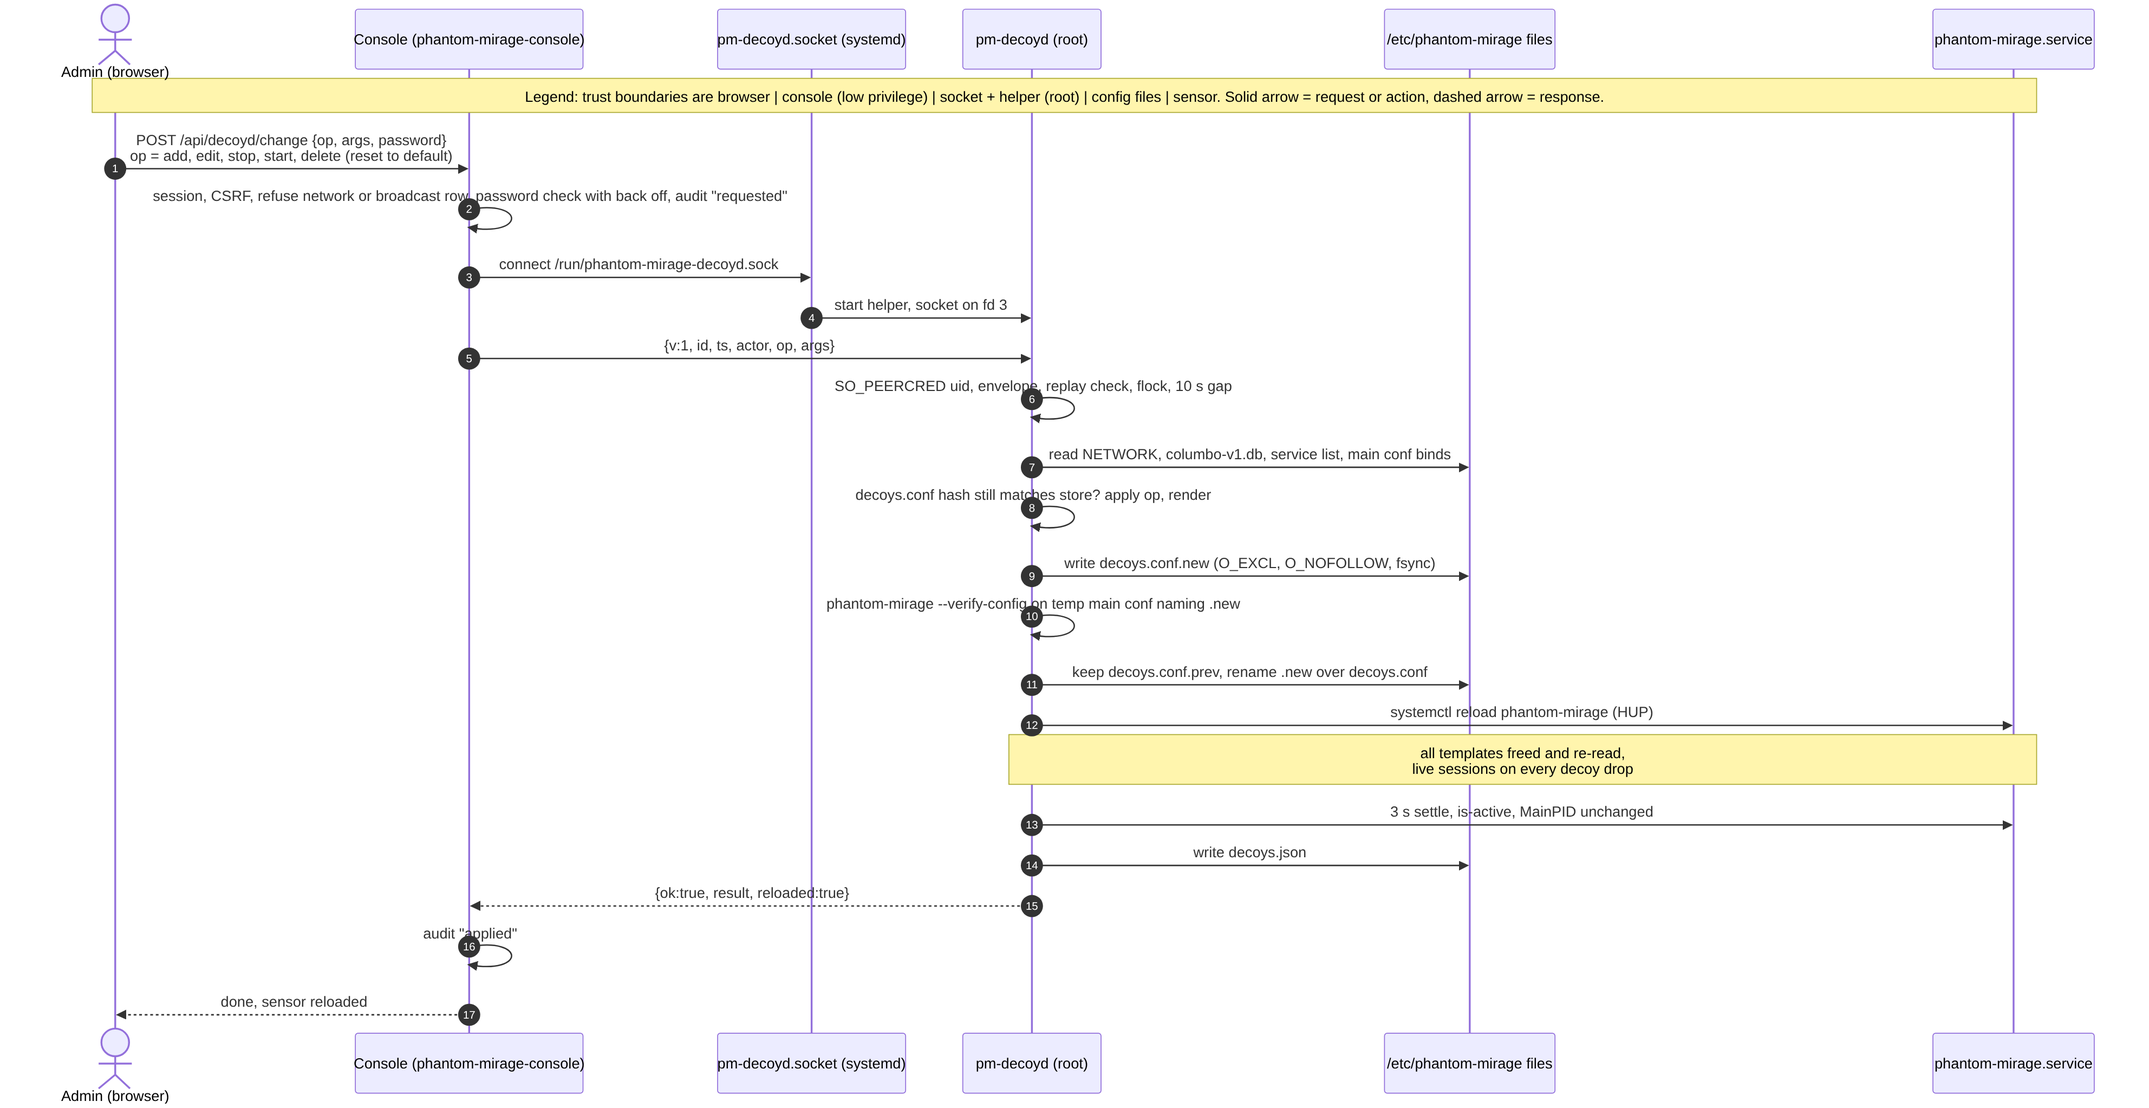
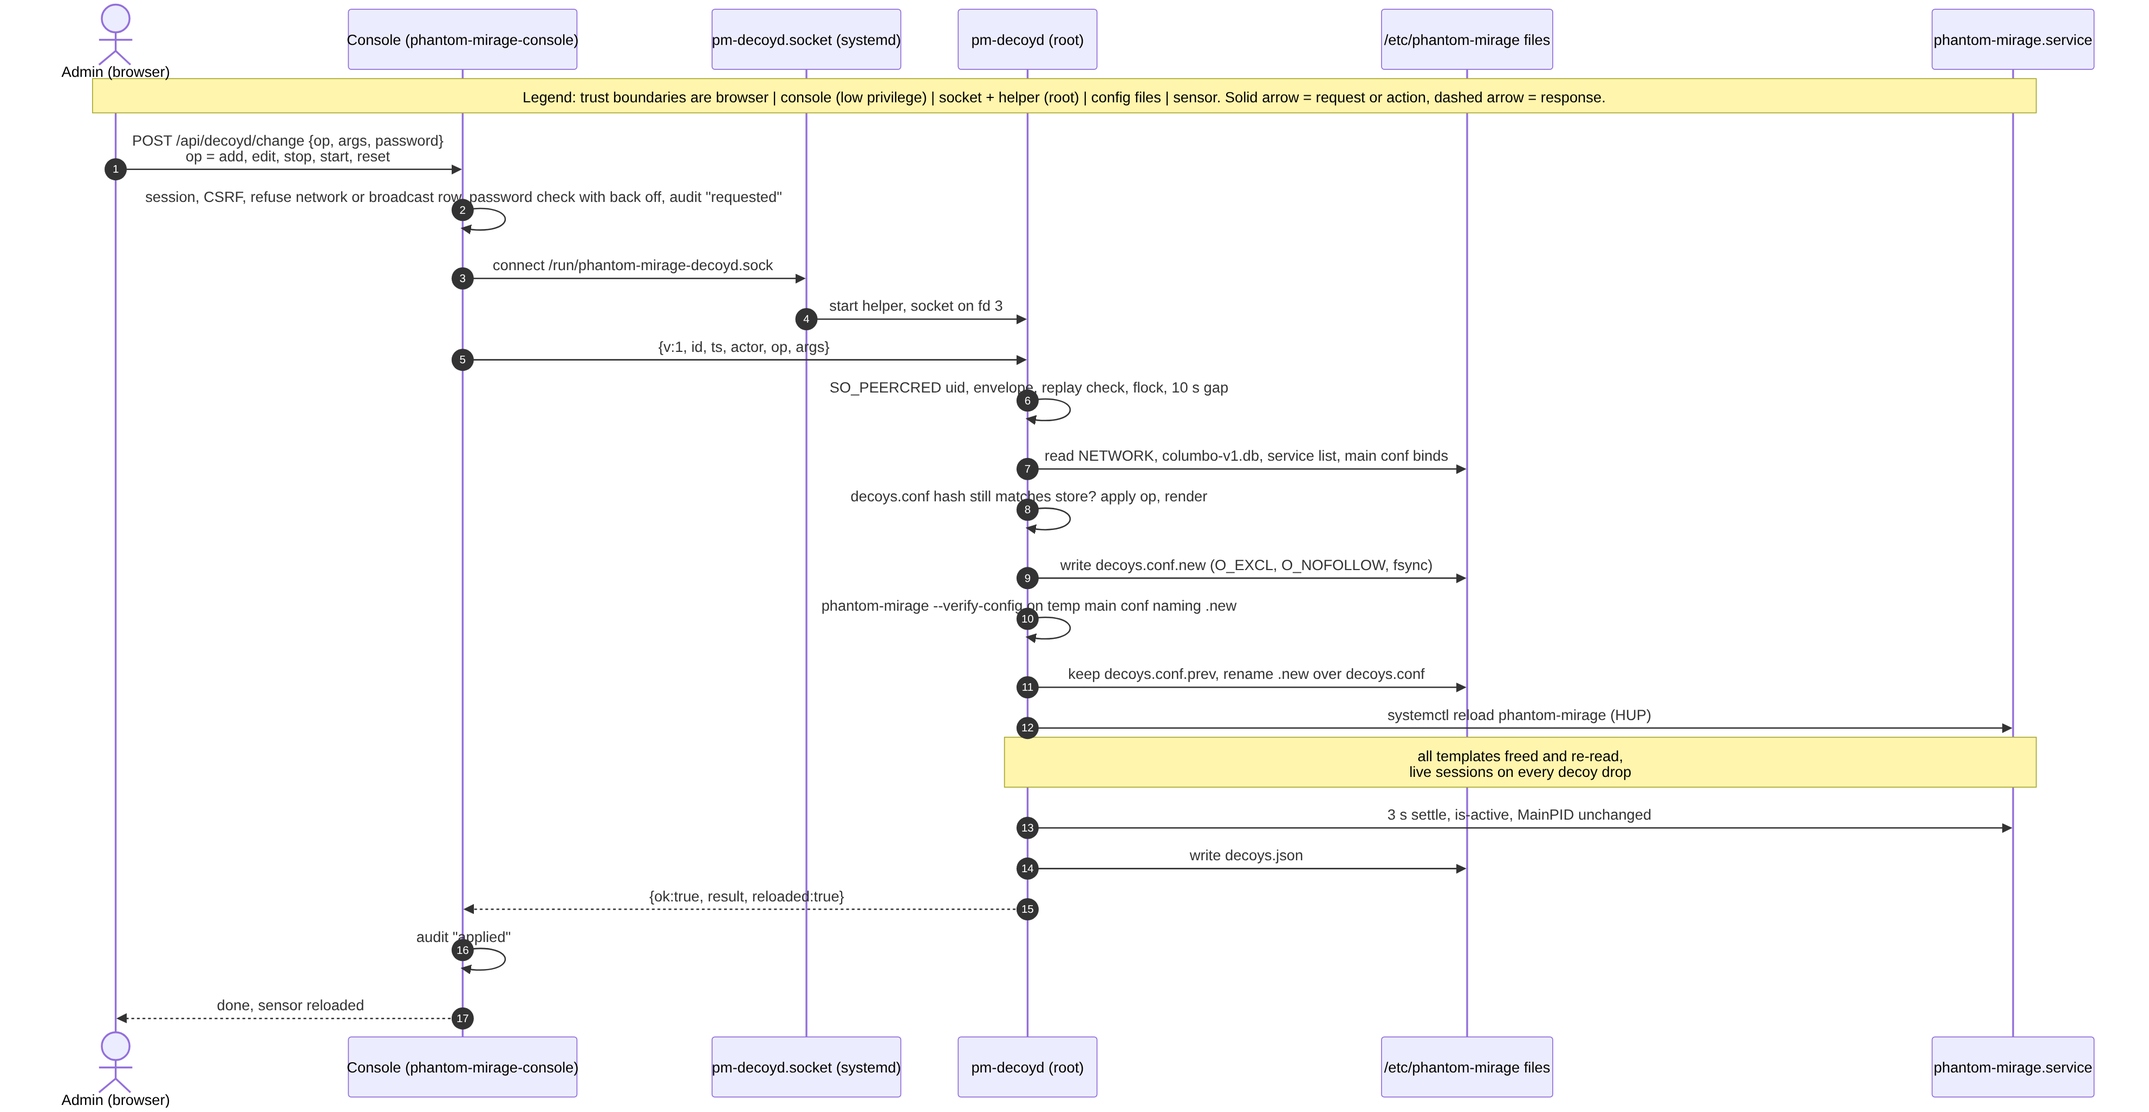
Decoy design: console surface at PR 256 head 4f4fa81
Match the doc to feat/decoy-settings at 4f4fa81. Document the
Dashboard charts and drill down, Activity event filter and live safe
refresh, profile menu with change password and sign out, time zone
drop down via /api/timezones, cache safe static assets, and branding
tweaks. NTP from the console stays not started and on hold. Delete a
decoy stays not started. Add diagram 08. Keep the real host untested
list, including Safari and postinst conffile prompt.

diff --git a/docs/design/decoy-management.md b/docs/design/decoy-management.md
@@ -1,13 +1,13 @@
 # Decoy management from the console: design
 
-**Status.** Design document, updated to match the code on branch feat/decoy-settings (draft PR 256, head 55c914d, not merged). Where this document says "implemented", it means implemented on that branch only. Nothing here is on master. Each section says what is built, what is tested offline, and what has not been tried on a real systemd host.
+**Status.** Design document, updated to match the code on branch feat/decoy-settings (draft PR 256, head 4f4fa81, not merged; stacked on draft PR 255). Where this document says "implemented", it means implemented on that branch only. Nothing here is on master. Each section says what is built, what is tested offline, and what has not been tried on a real systemd host.
 
 Labels used below:
 
 - **Implemented (PR 256)**: the code exists on feat/decoy-settings, draft PR 256, not merged.
-- **Tested offline**: covered by unit or shell tests that run without systemd, using a fake `systemctl`, a fake daemon and temp directories. I ran these tests on PR 256 head 55c914d: decoyd/tests 65 tests pass (3 skipped), console/tests 141 tests pass, ci/test_decoys_include.sh and ci/test_decoyd_socket.sh pass.
+- **Tested offline**: covered by unit or shell tests that run without systemd, using a fake `systemctl`, a fake daemon and temp directories. I ran these tests on PR 256 head 4f4fa81: decoyd/tests 65 tests pass (3 skipped), console/tests 163 tests pass, ci/test_decoys_include.sh and ci/test_decoyd_socket.sh pass.
 - **Untested on a real host**: not tried under real systemd, with a real socket, real reload or restart, or on a real LAN. The one exception is a single manual test by the project owner, described in section 9; it is not a test matrix.
-- **Not started**: no code yet.
+- **Not started**: no code yet. NTP setup from the console is not started and is on hold.
 
 ## In short
 
@@ -20,6 +20,7 @@ Labels used below:
 - Deleting a decoy is not started. It is a later slice.
 - An address block change restarts the sensor, then reloads the firewall (it no longer restarts it, which dropped the console) and restarts farpd, each only if running. If the browser loses the connection, the console waits up to 5 minutes and then shows whether the change was applied or rolled back.
 - If decoys.conf was edited by hand, the console refuses to overwrite it and tells you to run `sudo rm /var/lib/phantom-mirage/decoys.json` on the sensor.
+- On the same branch the console also gained a Dashboard with charts and drill down into Activity, an event type filter on Activity that stays usable while live, a profile menu (theme, change password, sign out), a time zone drop down backed by `/api/timezones`, and cache safe static assets so an upgrade cannot pair new HTML with stale JS. Theme choice stays in the browser only. NTP setup from the console is not built and is on hold.
 - All of this passes its offline tests. One manual test by the project owner on one test machine changed the address block and the sensor came up. Nothing else has been tried on a real sensor host.
 
 ## 1. Overview (plain words)
@@ -34,7 +35,10 @@ Labels used below:
 - set what the decoy does with any other port (open, closed, reset, block, filtered);
 - stop a decoy so it no longer answers, and start it again;
 - put a decoy back on the shared default ("Use default template");
-- change the address block and interface in the Network section.
+- change the address block and interface in the Network section;
+- open the Dashboard (charts of the last hour, with drill down into Activity, Alerts or Decoys);
+- filter Activity by source, decoy, protocol, event type and a time window;
+- change the display time zone in Settings, change the console password from the profile menu, switch light and dark theme, and sign out.
 
 **What changes for you.**
 
@@ -133,7 +137,7 @@ Source: [img/src/01-architecture.mmd](img/src/01-architecture.mmd)
 
 | Component | What it is | Status |
 |---|---|---|
-| `pm-console.py` + `decoyclient.py` | Console web server (user phantom-mirage-console). Routes `GET /api/decoyd/list`, `/api/decoyd/options`, `/api/decoyd/netinfo` and `POST /api/decoyd/change`. Client sends one JSON line per connection, timeout 90 s, 240 s for set_network. | Implemented (PR 256), tested offline |
+| `pm-console.py` + `decoyclient.py` | Console web server (user phantom-mirage-console). Decoy routes `GET /api/decoyd/list`, `/api/decoyd/options`, `/api/decoyd/netinfo` and `POST /api/decoyd/change` (client timeout 90 s, 240 s for set_network). Also `GET /api/timezones`, `POST /api/settings` (timezone), `POST /api/password`, Dashboard and Activity UI. Every POST needs `X-CSRF-Token`. | Implemented (PR 256), tested offline |
 | `pm-decoyd.socket` | `ListenStream=/run/phantom-mirage-decoyd.sock`, `SocketUser=root`, `SocketGroup=phantom-mirage-console`, `SocketMode=0660`, `Accept=no` | Implemented (PR 256), untested on a real host |
 | `pm-decoyd.service` | Runs `/usr/bin/python3 -I /usr/lib/phantom-mirage/pm-decoyd` as root. Refuses to start unless systemd passed exactly one socket (fd 3). Exits after 30 s with no connection. | Implemented (PR 256), untested on a real host |
 | `/usr/lib/phantom-mirage/pm-decoys-include` | Postinst script: creates `/etc/phantom-mirage/decoys.conf` with a header if missing, appends `include /etc/phantom-mirage/decoys.conf` to phantom-mirage.conf once, after a backup to `phantom-mirage.conf.pre-decoys.bak`. Refuses symlinked config. | Implemented (PR 256), tested offline (ci/test_decoys_include.sh) |
@@ -171,6 +175,92 @@ The main config keeps its hand written templates and binds and gains one line, `
 
 The helper keeps the sha256 of the text it last wrote. If decoys.conf on disk no longer matches, every change except reset_all (and set_network too) is refused with `E_CONFLICT`. The message tells you to drop the hand edits and all console decoy settings by running `sudo rm /var/lib/phantom-mirage/decoys.json` on the sensor and trying again. With no store there is no hash to compare, so the next change rewrites decoys.conf. reset_all also clears the conflict but is still not in the console UI.
 
+## 3a. Related console surface on the same branch
+
+These features are not the decoy helper. They live entirely in `pm-console.py` and the static UI on PR 256 (and, for theme toggle, earlier on the stack that includes PR 255). They matter for decoy work because the same session, CSRF and password rules protect every change, including decoy and network changes.
+
+```mermaid
+flowchart TB
+  subgraph B["Admin browser"]
+    PG["Pages: Dashboard, Decoys, Alerts, Activity, Settings"]
+    PROF["Profile menu: theme, change password, sign out"]
+    ST["Static assets with ?v=content hash"]
+  end
+  subgraph C["Console: phantom-mirage-console"]
+    API["pm-console.py<br/>session cookie, X-CSRF-Token on every POST"]
+    TZ["GET /api/timezones<br/>POST /api/settings timezone"]
+    PW["POST /api/password<br/>current + new, destroy all sessions"]
+    DASH["Dashboard KPIs and charts<br/>drill sets Activity filters"]
+    ACT["Activity filters: source, decoy, protocol, event, window"]
+  end
+  PG --> API
+  PROF --> PW
+  PROF --> API
+  ST -->|"index.html: Cache-Control no-store<br/>other assets: no-cache + ETag"| API
+  API --> TZ
+  API --> PW
+  API --> DASH
+  API --> ACT
+  DASH -->|"click or keyboard"| ACT
+  classDef low fill:#e2f0fd,stroke:#036
+  class API,TZ,PW,DASH,ACT low
+  subgraph LEG["Legend"]
+    L1["Blue: low privilege console only. Nothing here is the decoy helper."]:::low
+    L2["Theme choice stays in localStorage only; it is never sent to the server."]
+    L3["NTP setup from the console is not built and is on hold."]
+  end
+```
+
+![08-console-surface](img/08-console-surface.png)
+
+Source: [img/src/08-console-surface.mmd](img/src/08-console-surface.mmd)
+
+### Dashboard
+
+Implemented (PR 256), tested offline. Untested on a real host and in Safari.
+
+- Landing page after sign in. Live refresh updates counters and charts in place.
+- KPI cards: events in the last hour, open alerts, active decoys (non reserved), distinct sources in the last hour.
+- Charts: connections over the last hour in 5 minute buckets (with hover, focus and tap readout), protocol split, busiest decoys, top source addresses.
+- Drill down (mouse or keyboard): a KPI or chart part opens Activity with matching filters, or opens Alerts or Decoys. A time bucket sets a clearable window chip on Activity.
+
+### Activity filters
+
+Implemented (PR 256), tested offline.
+
+- Filters: source IP (search, 200 ms debounce, Enter applies), decoy, protocol (TCP, UDP, ICMP), event type, and an optional time window from a Dashboard drill.
+- Live refresh updates the table, the live label, the decoy list and the event type options only. It does not rebuild the source search box, so focus and keystrokes are kept.
+- Pause, clear filters, and CSV export stay as before.
+
+### Profile menu, password change and theme
+
+Implemented (PR 256), tested offline. Theme toggle itself was already on the stack (PR 255 and earlier); 4f4fa81 only hosts it in the profile menu as well as on the sign in page.
+
+- Profile row at the bottom of the sidebar: initials, user name, sensor name. Menu: theme, Change password, Sign out.
+- Theme: light or dark, stored under `pm_theme` in localStorage only. Nothing about the theme is sent to the server. With no saved choice the CSS follows `prefers-color-scheme`.
+- Change password opens a modal dialog that lives in `index.html` outside `#main`, so a live refresh cannot rebuild or close it. Fields: current password, new password, confirm. Client checks the two new values match; the server checks the current password, runs `password_problem` (at least 12 characters, not the username, not too simple, not too long), stores a new hash, destroys every session for that user, audits the change, and returns ok. The page then reloads to the sign in screen. Wrong current password is 403. The dialog also points at `phantom-mirage-setup --reset-admin` for recovery on the sensor.
+- Sign out calls `POST /api/logout` (CSRF protected) and reloads.
+- Every POST, including `/api/password`, `/api/settings`, `/api/logout` and `/api/decoyd/change`, must carry a valid `X-CSRF-Token` for the session or the console answers 403 and audits `csrf-reject`.
+
+### Time zone selector
+
+Implemented (PR 256), tested offline.
+
+- `GET /api/timezones` (session required) returns a sorted list of IANA names this host can resolve, always including UTC, and never the `posix/` or `right/` trees. Offline tests see more than 300 zones when `zoneinfo` is present.
+- Settings shows a drop down of those zones. `POST /api/settings` with `timezone` must match `^[A-Za-z0-9_+\-/]{1,64}$`. When more than one zone is known, the value must also be in the list; otherwise 400. Saving updates the config, audits the change, and the UI applies the zone live to times across the console.
+- The Settings card still shows the configured time source (browser at sign in, or an NTP server string written by setup). Changing NTP from the console is **not started** and is on hold. Do not treat the display of an existing `time_source` value as an NTP feature in this work.
+
+### Cache safe static assets
+
+Implemented (PR 256), tested offline.
+
+- `index.html` is branded and served with `Cache-Control: no-store`. Script, style and image URLs carry `?v=<12 hex chars>`, a short sha256 of every static file other than `index.html`.
+- Other static responses use `Cache-Control: no-cache` and a content `ETag`. An `If-None-Match` match returns 304. An upgrade therefore cannot leave a new page talking to a stale `console.js` or `console.css`.
+
+### Branding note
+
+The product logo wordmark in the header is now a bold uppercase vector (still themed). MIRAGE stays centred in the sidebar. Gateways are listed once. Implemented (PR 256), tested offline (branding tests).
+
 ## 4. Data flow diagrams
 
 ### 4.1 Decoy change (add, edit, stop, start, reset to default)
@@ -187,7 +277,7 @@ sequenceDiagram
   participant F as /etc/phantom-mirage files
   participant P as phantom-mirage.service
   Note over U,P: Legend: trust boundaries are browser | console (low privilege) | socket + helper (root) | config files | sensor. Solid arrow = request or action, dashed arrow = response.
-  U->>C: POST /api/decoyd/change {op, args, password}<br/>op = add, edit, stop, start, delete (reset to default)
+  U->>C: POST /api/decoyd/change {op, args, password}<br/>op = add, edit, stop, start, reset
   C->>C: session, CSRF, refuse network or broadcast row, password check with back off, audit "requested"
   C->>S: connect /run/phantom-mirage-decoyd.sock
   S->>H: start helper, socket on fd 3
@@ -531,12 +621,11 @@ The file swap is still a series of single file renames, not one atomic step. A c
 
 ## 9. Test plan and what has been run
 
-Run offline on PR 256 head 55c914d (by me, for this update)
+Run offline on PR 256 head 4f4fa81 (by me, for this update)
 
-- `python3 -m unittest discover -s decoyd/tests`: 65 tests, all pass, 3 skipped. The 3 skipped are `TestRealVerify` which need root and the built daemon. New tests cover the outcome record and `last_change`, rolled back and failed outcomes, no outcome on refusal, daemon-reload only when stale, gateways listed once, queueing behind the interval, firewall then farpd order, crash mid swap recovered on the next change, journal refusing foreign paths, and no journal left after success or rollback.
-- `python3 -m unittest discover -s console/tests`: 141 tests pass, including the `reset` op, `last_change` after a change, and the UI reading the outcome after a lost connection (simulated).
+- `python3 -m unittest discover -s decoyd/tests`: 65 tests, all pass, 3 skipped (`TestRealVerify`, need root and the built daemon). No decoyd code changed since 55c914d.
+- `python3 -m unittest discover -s console/tests`: 163 tests pass (was 141 at 55c914d). New coverage includes Dashboard page and drill down, Activity event filter and live safe refresh, profile menu, password dialog placement, chart hover readout, `/api/timezones` and timezone validation, timezone drop down markup, and cache safe assets after an upgrade.
 - `ci/test_decoys_include.sh` and `ci/test_decoyd_socket.sh`: pass.
-- Forge reports CI green on f09ce88, 4d65ef0 and 55c914d. I did not open the CI runs myself.
 
 What the offline tests cover: validation tables, envelope and replay, rendering, the decoy change pipeline and its rollbacks, network validation, set_network success, rollback, outcome record and journal recovery, socket peer checks with a socket pair. All with a fake `systemctl`, fake `ip` output and a fake daemon.
 
@@ -549,14 +638,15 @@ One manual test on a real host (reported by the project owner, not repeated by m
 Still needed, only on a real systemd host
 
 - Socket activation, socket owner and mode, `SO_PEERCRED` from the real console user, idle exit.
-- Whether the hardened unit can call `systemctl reload`, `restart` and `daemon-reload` and open the interface for verify. The one manual run suggests restart works for set_network; nothing else is shown.
+- Whether the hardened unit can call `systemctl reload` (SIGHUP under the hardened unit), `restart` and `daemon-reload` and open the interface for verify. The one manual run suggests restart works for set_network; nothing else is shown.
 - Real decoy reload and its rollback, and real restart rollback, including `ExecStartPre` checks.
-- Firewall reload keeping the console and its sessions up during set_network (the fix after the manual test).
+- Real firewall reload keeping the console and its sessions up during set_network (the fix after the manual test).
 - The console's 5 minute wait after a lost connection, against a real restart.
 - Journal recovery after a real crash or kill mid swap.
 - Stopped decoy behaviour on a real LAN: no reply while a neighbour answers, ARP still answered.
-- farpd restart and ARP for the new block, old block released.
-- Package install and upgrade: the include line and the socket enable on a real system.
+- farpd on a real LAN: restart and ARP for the new block, old block released.
+- Package install and upgrade: the include line, the socket enable, and a postinst upgrade that hits a conffile prompt, on a real system.
+- Safari (and other non Chromium browsers): Dashboard charts, drill down, profile menu, password dialog, time zone drop down and cache safe asset load.
 
 ## 10. Build slices
 
@@ -567,7 +657,11 @@ Still needed, only on a real systemd host
 | 3 Stop and start | Stop and Start icons per row; none on network and broadcast rows | Implemented (PR 256), tested offline |
 | 4 Settings panel | Personality, default actions, port table, "Use default template" (op `reset`). The panel note now says the address block is changed in the Network section, and that addresses bound in phantom-mirage.conf are changed there. | Implemented (PR 256), tested offline |
 | 5 Network section | Change address block and interface (set_network), outcome after a lost connection | Implemented (PR 256), tested offline, one manual real host run |
-| Console look (55c914d) | Product logo wordmark (vector, follows the theme) in the header and on the sign in page, MIRAGE centred in the sidebar, gateways listed once | Implemented (PR 256), tested offline (branding tests) |
+| Console look | Bold uppercase product wordmark (vector, themed) in the header, MIRAGE centred in the sidebar, gateways listed once | Implemented (PR 256), tested offline (branding tests) |
+| Console Dashboard and Activity | Dashboard charts with drill down; Activity event filter and live safe refresh | Implemented (PR 256), tested offline; untested on a real host and in Safari |
+| Console account | Profile menu with theme, change password (destroys sessions) and sign out; time zone drop down via `/api/timezones` | Implemented (PR 256), tested offline |
+| Console asset cache | `?v=` content hash, `no-store` HTML, `no-cache` + ETag assets | Implemented (PR 256), tested offline |
+| NTP from the console | Configure or change NTP in the UI | **Not started.** On hold. The Settings card may show an existing time source string from setup; that is display only. |
 | 6 Delete a decoy | Take an address out of service | **Not started.** Later slice, one change at a time. |
 
 Every slice still needs security review sign off and a real host test before merge.
@@ -593,6 +687,7 @@ Still open
 5. **`/etc/default` write access**: the helper can write the whole directory. Could it be narrowed to the two files?
 6. **Journal recovery scope**: it restarts the sensor only, not the firewall or farpd, and a write error before the restart records no outcome.
 7. **Display label** for a decoy.
+8. **NTP from the console**: on hold. When (if) it returns, how it interacts with the browser time source and the drift warning.
 
 Resolved since the first draft
 
@@ -603,3 +698,5 @@ Resolved since the first draft
 - Recovery from `E_CONFLICT` without reset_all in the UI: the message now names `sudo rm /var/lib/phantom-mirage/decoys.json`.
 - Multi file swap not atomic: still not atomic, but a crash mid swap is now recovered from `netchange.journal`.
 - Console lost during an address block change: the firewall is reloaded, not restarted, and the UI reads the outcome from `last_change`.
+- Change password moved out of Settings into the profile menu dialog (53ee5de).
+- Static assets made cache safe after an upgrade (0a6a357).
